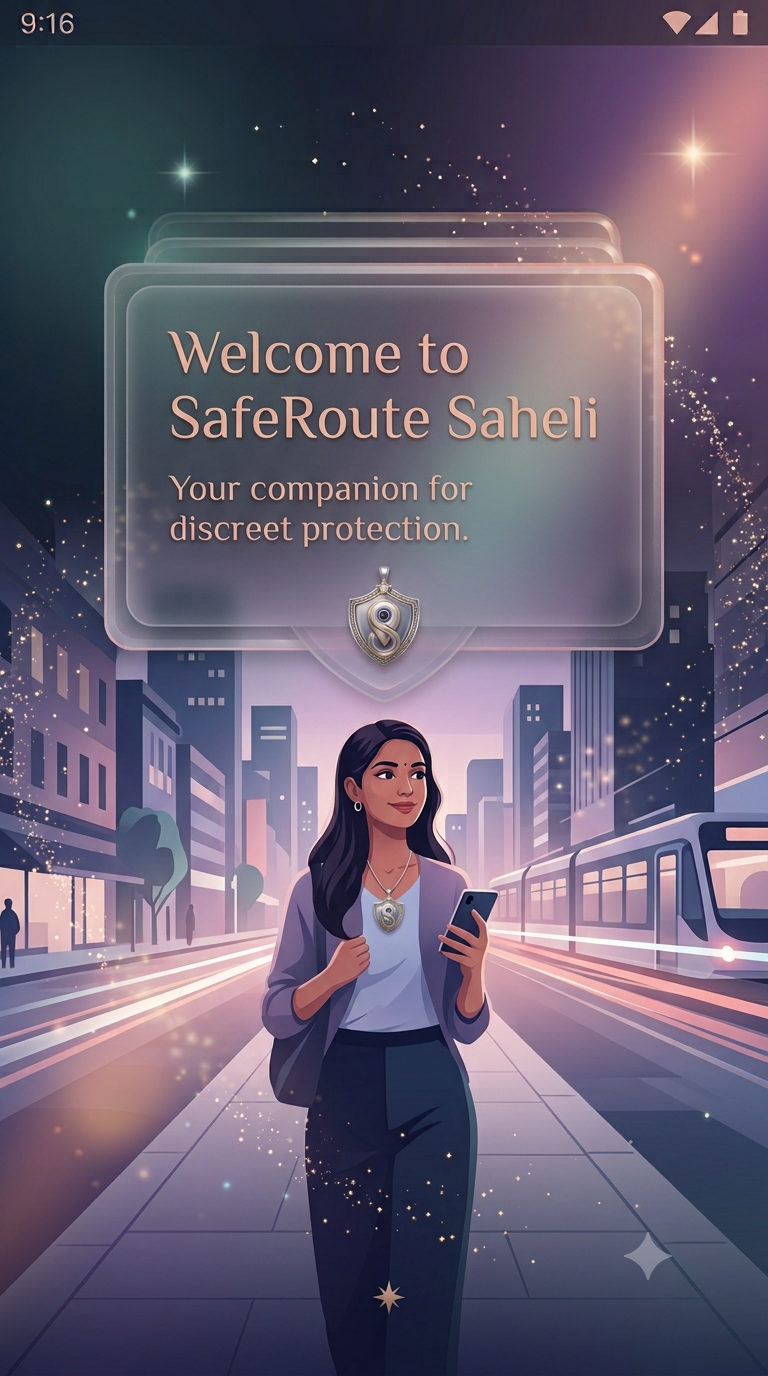
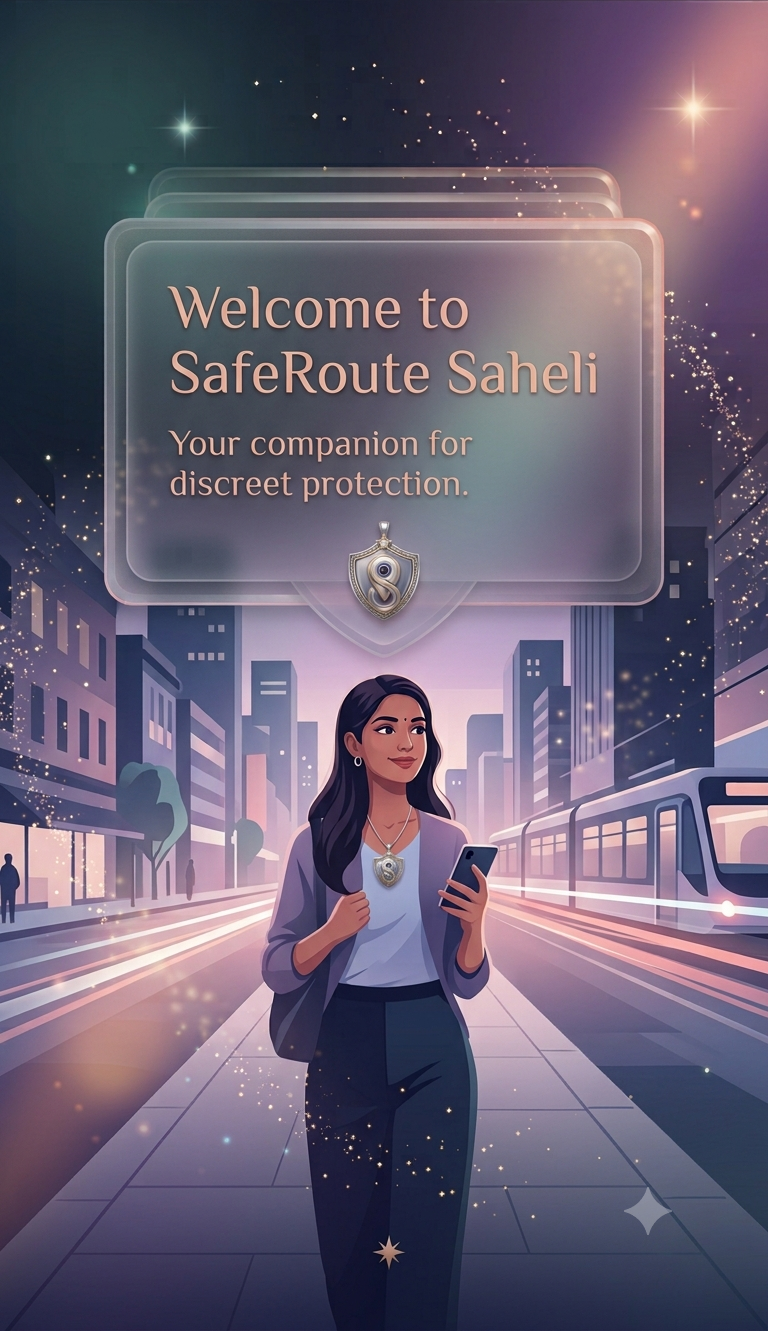
Added onboarding screens with Bloc navigation

diff --git a/saferoute_saheli/lib/screens/splashscreen/onboarding/screens/onboarding_screen.dart b/saferoute_saheli/lib/screens/splashscreen/onboarding/screens/onboarding_screen.dart
@@ -1,0 +1,124 @@
+import 'package:flutter/material.dart';
+import 'package:flutter_bloc/flutter_bloc.dart';
+
+import '../bloc/onboarding/onboarding_bloc.dart';
+import '../bloc/onboarding/onboarding_event.dart';
+import '../bloc/onboarding/onboarding_state.dart';
+
+import 'onboarding_page1.dart';
+import 'onboarding_page2.dart';
+import 'onboarding_page3.dart';
+
+class OnboardingScreen extends StatefulWidget {
+
+  const OnboardingScreen({super.key});
+
+  @override
+  State<OnboardingScreen> createState() =>
+      _OnboardingScreenState();
+
+}
+
+class _OnboardingScreenState
+    extends State<OnboardingScreen> {
+
+  final PageController controller = PageController();
+
+  @override
+  Widget build(BuildContext context) {
+
+    return BlocListener<OnboardingBloc, OnboardingState>(
+
+      listener: (context, state) {
+
+        controller.animateToPage(
+          state.currentPage,
+          duration: const Duration(milliseconds: 300),
+          curve: Curves.easeInOut,
+        );
+
+      },
+
+      child: Scaffold(
+
+        body: Stack(
+
+          children: [
+
+            PageView(
+
+              controller: controller,
+              physics: NeverScrollableScrollPhysics(),
+
+              children: const [
+
+                OnboardingPage1(),
+                OnboardingPage2(),
+                OnboardingPage3(),
+
+              ],
+
+            ),
+
+            Positioned(
+
+              bottom: 50,
+              right: 25,
+
+              child: BlocBuilder<
+                  OnboardingBloc,
+                  OnboardingState>(
+
+                builder: (context, state) {
+
+                  return ElevatedButton(
+
+                    style: ElevatedButton.styleFrom(
+                      padding: const EdgeInsets.symmetric(
+                          horizontal: 35,
+                          vertical: 15),
+                    ),
+
+                    onPressed: () {
+
+                      if (state.currentPage == 2) {
+
+                        Navigator.pushReplacementNamed(
+                            context,
+                            "/login");
+
+                      } else {
+
+                        context
+                            .read<OnboardingBloc>()
+                            .add(NextPageEvent());
+
+                      }
+
+                    },
+
+                    child: Text(
+                      state.currentPage == 2
+                          ? "Get Started"
+                          : "Next",
+                    ),
+
+                  );
+
+                },
+
+              ),
+
+            ),
+
+          ],
+
+        ),
+
+      ),
+
+    );
+
+  }
+
+}

diff --git a/saferoute_saheli/lib/screens/splashscreen/widgets/nextbutton.dart b/saferoute_saheli/lib/screens/splashscreen/widgets/nextbutton.dart
@@ -1,0 +1,34 @@
+Positioned(
+  bottom: 40,
+  right: 24,
+  child: ElevatedButton(
+    onPressed: () {
+      context.read<OnboardingBloc>().add(NextPageEvent());
+    },
+    style: ElevatedButton.styleFrom(
+      backgroundColor: Colors.white,
+      foregroundColor: Colors.black,
+      shape: RoundedRectangleBorder(
+        borderRadius: BorderRadius.circular(30),
+      ),
+      padding: const EdgeInsets.symmetric(
+        horizontal: 28,
+        vertical: 14,
+      ),
+    ),
+    child: const Row(
+      mainAxisSize: MainAxisSize.min,
+      children: [
+        Text(
+          "Next",
+          style: TextStyle(
+            fontSize: 16,
+            fontWeight: FontWeight.w600,
+          ),
+        ),
+        SizedBox(width: 8),
+        Icon(Icons.arrow_forward),
+      ],
+    ),
+  ),
+),

diff --git a/saferoute_saheli/lib/screens/splashscreen/onboarding/bloc/onboardingmain.dart b/saferoute_saheli/lib/screens/splashscreen/onboarding/bloc/onboardingmain.dart
@@ -1,0 +1,32 @@
+import 'package:flutter/material.dart';
+import 'package:flutter_bloc/flutter_bloc.dart';
+
+import 'bloc/onboarding/onboarding_bloc.dart';
+import 'screens/onboarding_screen.dart';
+
+void main() {
+  runApp(
+
+    BlocProvider(
+      create: (_) => OnboardingBloc(),
+      child: const MyApp(),
+    ),
+
+  );
+}
+
+class MyApp extends StatelessWidget {
+
+  const MyApp({super.key});
+
+  @override
+  Widget build(BuildContext context) {
+
+    return MaterialApp(
+      debugShowCheckedModeBanner: false,
+      home: OnboardingScreen(),
+    );
+
+  }
+
+}

diff --git a/saferoute_saheli/lib/screens/splashscreen/onboarding/screens/onboarding_page1.dart b/saferoute_saheli/lib/screens/splashscreen/onboarding/screens/onboarding_page1.dart
@@ -1,0 +1,31 @@
+import 'package:flutter/material.dart';
+
+class OnboardingPage1 extends StatelessWidget {
+
+  const OnboardingPage1({super.key});
+
+  @override
+  Widget build(BuildContext context) {
+
+    return Scaffold(
+
+      body: Stack(
+
+        fit: StackFit.expand,
+
+        children: [
+
+          Image.asset(
+            "assets/images/onboard1.png",
+            fit: BoxFit.cover,
+          ),
+
+        ],
+
+      ),
+
+    );
+
+  }
+
+}

diff --git a/saferoute_saheli/lib/screens/splashscreen/onboarding/bloc/onboarding_bloc.dart b/saferoute_saheli/lib/screens/splashscreen/onboarding/bloc/onboarding_bloc.dart
@@ -1,0 +1,28 @@
+import 'package:flutter_bloc/flutter_bloc.dart';
+import 'onboarding_event.dart';
+import 'onboarding_state.dart';
+
+class OnboardingBloc
+    extends Bloc<OnboardingEvent, OnboardingState> {
+
+  OnboardingBloc() : super(const OnboardingState(0)) {
+
+    on<NextPageEvent>((event, emit) {
+
+      if (state.currentPage < 2) {
+        emit(OnboardingState(state.currentPage + 1));
+      }
+
+    });
+
+    on<PreviousPageEvent>((event, emit) {
+
+      if (state.currentPage > 0) {
+        emit(OnboardingState(state.currentPage - 1));
+      }
+
+    });
+
+  }
+
+}

diff --git a/saferoute_saheli/lib/screens/splashscreen/onboarding/screens/onboarding_page2.dart b/saferoute_saheli/lib/screens/splashscreen/onboarding/screens/onboarding_page2.dart
@@ -1,0 +1,28 @@
+import 'package:flutter/material.dart';
+
+class OnboardingPage2 extends StatelessWidget {
+
+  const OnboardingPage2({super.key});
+
+  @override
+  Widget build(BuildContext context) {
+
+    return Scaffold(
+
+      body: Center(
+
+        child: Text(
+          "Share your location\nonly when needed",
+          textAlign: TextAlign.center,
+          style: TextStyle(
+              fontSize: 30,
+              fontWeight: FontWeight.bold),
+        ),
+
+      ),
+
+    );
+
+  }
+
+}

diff --git a/saferoute_saheli/lib/screens/splashscreen/onboarding/screens/onboarding_page3.dart b/saferoute_saheli/lib/screens/splashscreen/onboarding/screens/onboarding_page3.dart
@@ -1,0 +1,28 @@
+import 'package:flutter/material.dart';
+
+class OnboardingPage2 extends StatelessWidget {
+
+  const OnboardingPage2({super.key});
+
+  @override
+  Widget build(BuildContext context) {
+
+    return Scaffold(
+
+      body: Center(
+
+        child: Text(
+          "Share your location\nonly when needed",
+          textAlign: TextAlign.center,
+          style: TextStyle(
+              fontSize: 30,
+              fontWeight: FontWeight.bold),
+        ),
+
+      ),
+
+    );
+
+  }
+
+}

diff --git a/saferoute_saheli/lib/screens/splashscreen/onboarding/bloc/onboarding_event.dart b/saferoute_saheli/lib/screens/splashscreen/onboarding/bloc/onboarding_event.dart
@@ -1,0 +1,5 @@
+abstract class OnboardingEvent {}
+
+class NextPageEvent extends OnboardingEvent {}
+
+class PreviousPageEvent extends OnboardingEvent {}

diff --git a/saferoute_saheli/lib/screens/splashscreen/onboarding/bloc/onboarding_state.dart b/saferoute_saheli/lib/screens/splashscreen/onboarding/bloc/onboarding_state.dart
@@ -1,0 +1,5 @@
+class OnboardingState {
+  final int currentPage;
+
+  const OnboardingState(this.currentPage);
+}